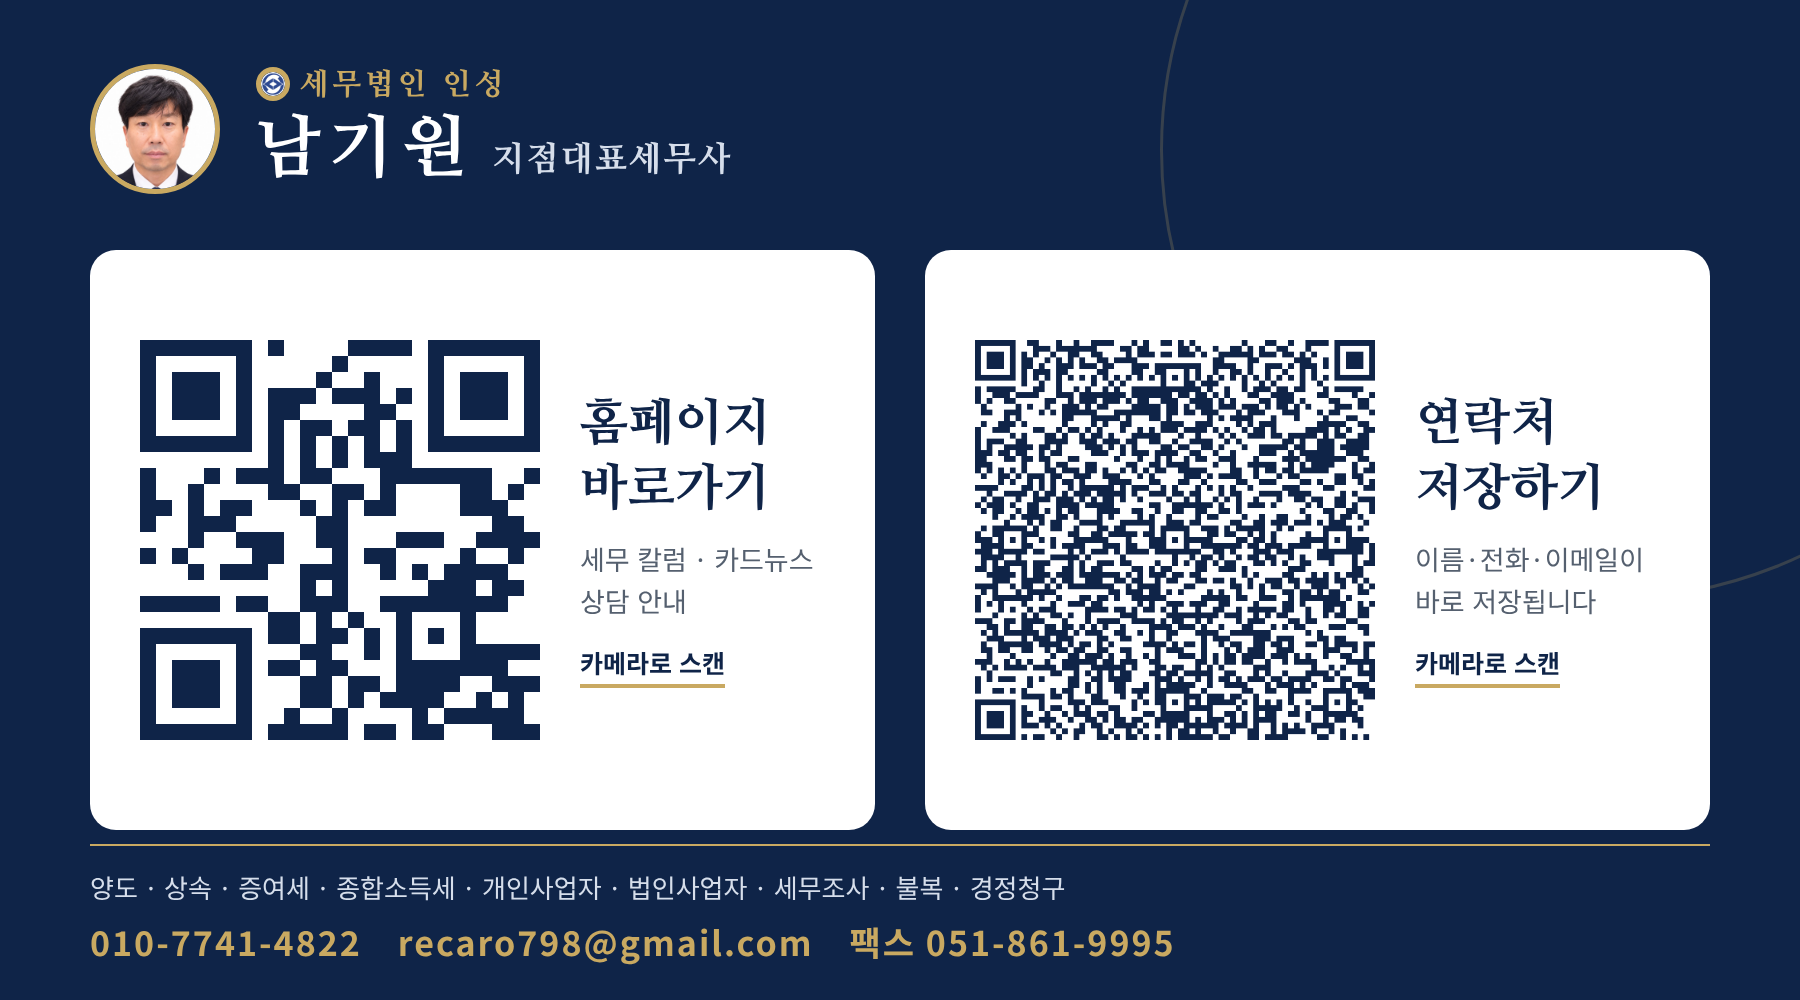
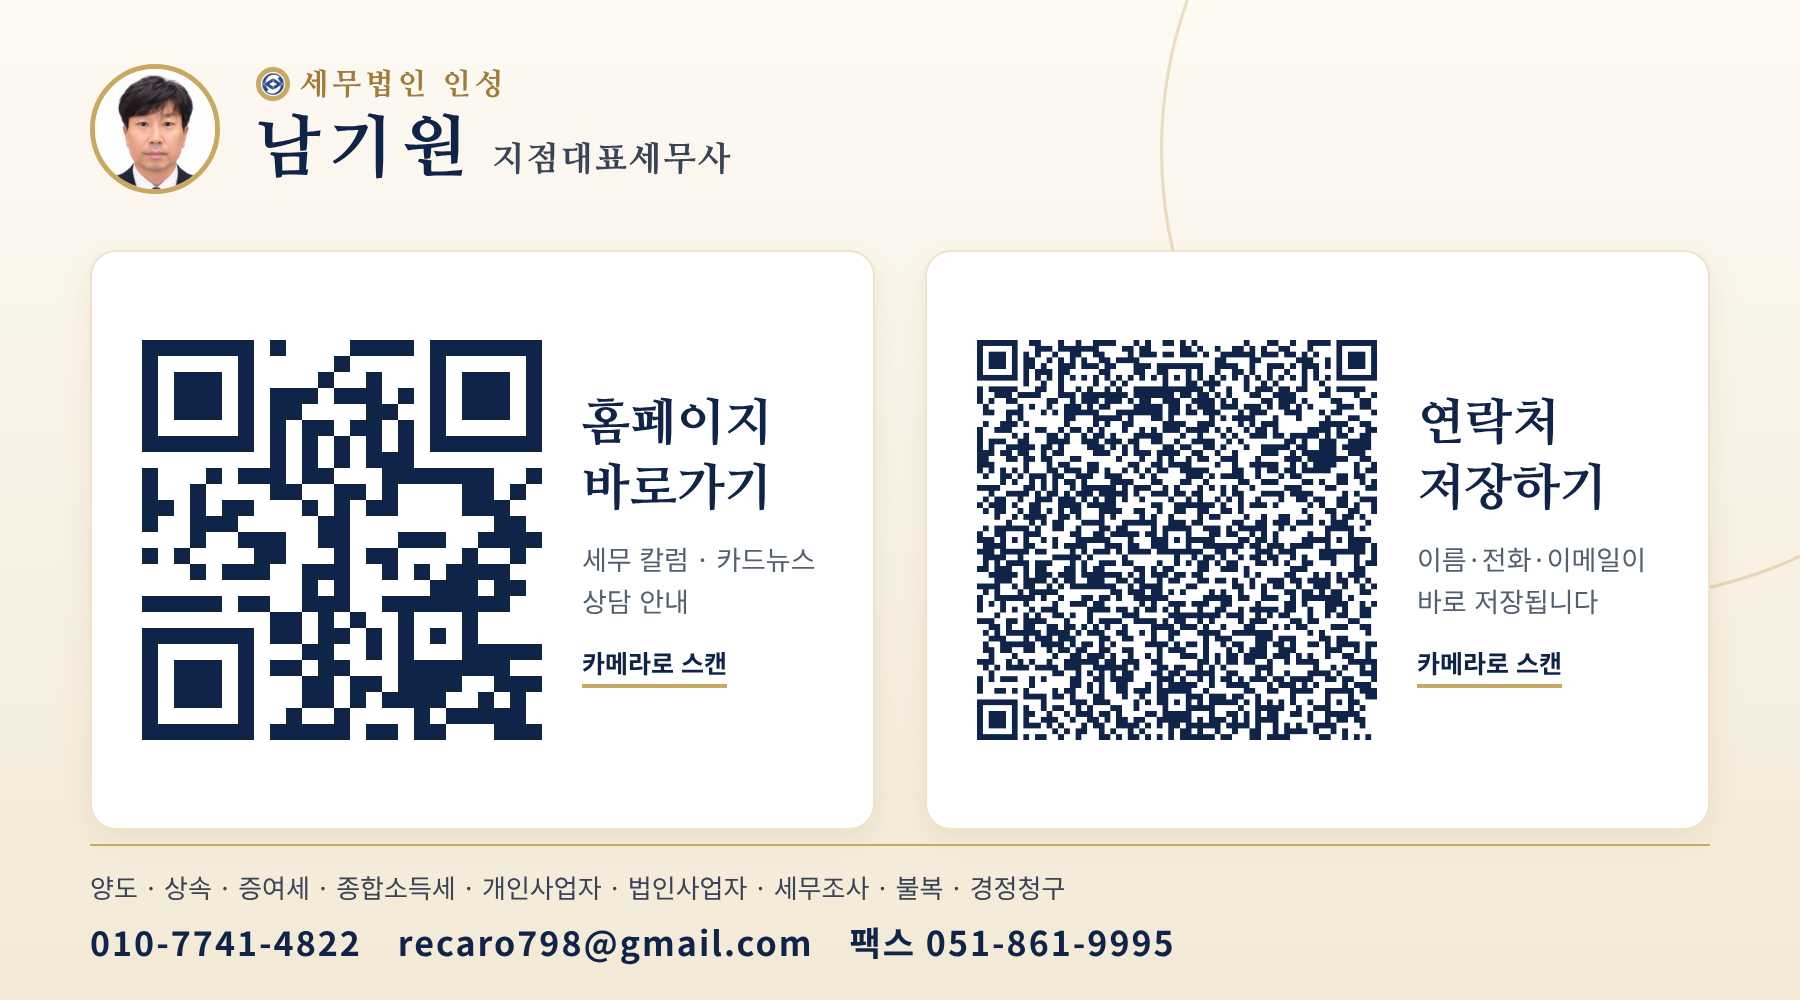
명함 남색 배경 제거: 디지털 명함·QR 명함 페이지·QR 명함 이미지·링크 미리보기 이미지를 아이보리 배경으로
Claude-Session: https://claude.ai/code/session_01SxCCn7YXo7pVz4k4qkVwMb

diff --git a/_ops/qrcard/card.html b/_ops/qrcard/card.html
@@ -1,22 +1,22 @@
 <!doctype html><html><head><meta charset="utf-8"><style>
 @font-face{font-family:NM;src:url(../fonts/NanumMyeongjo-800.woff2);font-weight:800}
 *{margin:0;padding:0;box-sizing:border-box}
-body{width:1800px;height:1000px;background:#0f2448;font-family:"Noto Sans CJK KR",sans-serif;color:#fff;position:relative;overflow:hidden}
+body{width:1800px;height:1000px;background:linear-gradient(180deg,#fdfaf4 0%,#f3e9d6 100%);font-family:"Noto Sans CJK KR",sans-serif;color:#0f2448;position:relative;overflow:hidden}
 .serif{font-family:NM,"Noto Serif CJK KR",serif;font-weight:800}
-.circ{position:absolute;right:-260px;top:-300px;width:900px;height:900px;border-radius:50%;border:3px solid rgba(201,169,97,.22)}
+.circ{position:absolute;right:-260px;top:-300px;width:900px;height:900px;border-radius:50%;border:3px solid rgba(201,169,97,.35)}
 .hd{position:absolute;left:90px;right:90px;top:64px;display:flex;align-items:center;gap:36px}
 .hd img{width:130px;height:130px;border-radius:50%;border:5px solid #c9a961;object-fit:cover}
-.hd .o{font-family:NM;font-size:30px;color:#c9a961;letter-spacing:4px;font-weight:700}
-.hd .n{font-size:68px;font-weight:900;margin-top:4px;letter-spacing:8px}
-.hd .n small{font-size:34px;font-weight:700;letter-spacing:2px;margin-left:18px;color:#d6deeb}
+.hd .o{font-family:NM;font-size:30px;color:#a27b3a;letter-spacing:4px;font-weight:700}
+.hd .n{color:#0f2448;font-size:68px;font-weight:900;margin-top:4px;letter-spacing:8px}
+.hd .n small{font-size:34px;font-weight:700;letter-spacing:2px;margin-left:18px;color:#3a4456}
 .row{position:absolute;left:90px;right:90px;top:250px;display:flex;gap:50px}
-.p{flex:1;background:#fff;border-radius:26px;height:580px;display:flex;align-items:center;gap:40px;padding:0 50px;color:#0f2448}
+.p{flex:1;background:#fff;border:2px solid #eee3cd;box-shadow:0 10px 30px rgba(162,123,58,.12);border-radius:26px;height:580px;display:flex;align-items:center;gap:40px;padding:0 50px;color:#0f2448}
 .p img{width:400px;height:400px;flex:none}
 .p .t b{display:block;font-size:50px;font-weight:900;line-height:1.3}
 .p .t span{display:block;font-size:27px;color:#55606f;margin-top:16px;line-height:1.55}
 .p .t i{display:inline-block;font-style:normal;margin-top:22px;font-size:25px;font-weight:700;color:#0f2448;border-bottom:4px solid #c9a961;padding-bottom:4px}
-.ft{position:absolute;left:90px;right:90px;bottom:34px;display:flex;flex-direction:column;gap:12px;border-top:2px solid #c9a961;padding-top:22px;font-size:26px;color:#d6deeb}
-.ft b{color:#c9a961;font-size:34px;letter-spacing:2px}
+.ft{position:absolute;left:90px;right:90px;bottom:34px;display:flex;flex-direction:column;gap:12px;border-top:2px solid #c9a961;padding-top:22px;font-size:26px;color:#3a4456}
+.ft b{color:#0f2448;font-size:34px;letter-spacing:2px}
 </style></head><body><div class="circ"></div>
 <div class="hd"><img src="profile.jpg"><div><div class="o"><img src="kacta-mark.png" style="width:34px;height:34px;vertical-align:-7px;margin-right:10px">세무법인 인성</div><div class="n serif">남기원<small>지점대표세무사</small></div></div></div>
 <div class="row">

diff --git a/card/index.html b/card/index.html
@@ -18,23 +18,23 @@
 <style>
 :root{--navy:#0f2448;--gold:#c9a961}
 *{margin:0;padding:0;box-sizing:border-box}
-body{font-family:"Noto Sans KR",sans-serif;background:var(--navy);color:#fff;min-height:100vh;display:flex;justify-content:center}
+body{font-family:"Noto Sans KR",sans-serif;background:linear-gradient(180deg,#fdfaf4 0%,#f3e9d6 100%);color:#0f2448;min-height:100vh;display:flex;justify-content:center}
 .w{width:100%;max-width:440px;padding:36px 22px 40px;position:relative}
 .top{text-align:center}
 .top>img{width:120px;height:120px;border-radius:50%;border:4px solid var(--gold);object-fit:cover}
 .mk2{width:22px;height:22px;vertical-align:-5px;margin-right:6px}
-.o{font-family:"Nanum Myeongjo",serif;margin-top:16px;font-size:14px;letter-spacing:3px;color:var(--gold);font-weight:700}
-h1{font-family:"Nanum Myeongjo",serif;font-size:36px;font-weight:800;letter-spacing:8px;margin-top:4px}
+.o{font-family:"Nanum Myeongjo",serif;margin-top:16px;font-size:14px;letter-spacing:3px;color:#a27b3a;font-weight:700}
+h1{color:#0f2448;font-family:"Nanum Myeongjo",serif;font-size:36px;font-weight:800;letter-spacing:8px;margin-top:4px}
 h1::after{content:"";display:block;width:36px;height:2px;background:var(--gold);margin:8px auto 0}
-.t{font-size:15px;color:#d6deeb;margin-top:4px}
-.f{font-size:13px;color:#aebbd3;margin-top:10px;line-height:1.6}
+.t{font-size:15px;color:#3a4456;margin-top:4px}
+.f{font-size:13px;color:#55606f;margin-top:10px;line-height:1.6}
 .btns{margin-top:26px;display:flex;flex-direction:column;gap:12px}
-.b{display:flex;align-items:center;justify-content:center;gap:10px;padding:17px;border-radius:14px;font-size:18px;font-weight:700;text-decoration:none;color:var(--navy);background:#fff}
-.b.g{background:var(--gold)}
-.b.k{background:#fee500}
-.b.l{background:transparent;color:#fff;border:2px solid rgba(255,255,255,.35)}
-.info{margin-top:26px;border-top:1px solid var(--gold);padding-top:18px;font-size:14px;line-height:1.9;color:#d6deeb;text-align:center}
-.note{margin-top:18px;font-size:12px;color:#8fa0bf;line-height:1.7;text-align:center}
+.b{display:flex;align-items:center;justify-content:center;gap:10px;padding:17px;border-radius:14px;font-size:18px;font-weight:700;text-decoration:none;color:var(--navy);background:#fff;border:1px solid #e6dfcf;box-shadow:0 4px 14px rgba(162,123,58,.08)}
+.b.g{background:linear-gradient(145deg,#e3c587,#c9a961);border:0}
+.b.k{background:#fee500;border:0}
+.b.l{background:rgba(255,255,255,.7);color:#0f2448;border:1px solid #e6dfcf;box-shadow:none}
+.info{margin-top:26px;border-top:1px solid var(--gold);padding-top:18px;font-size:14px;line-height:1.9;color:#3a4456;text-align:center}
+.note{margin-top:18px;font-size:12px;color:#7a8496;line-height:1.7;text-align:center}
 </style>
 </head>
 <body>

diff --git a/card/qr/index.html b/card/qr/index.html
@@ -15,10 +15,10 @@
 <meta property="og:image:height" content="1000">
 <style>
 *{margin:0;padding:0;box-sizing:border-box}
-body{background:#0f2448;min-height:100vh;display:flex;flex-direction:column;align-items:center;justify-content:center;padding:16px;font-family:"Noto Sans KR",sans-serif;color:#d6deeb}
+body{background:linear-gradient(180deg,#fdfaf4 0%,#f3e9d6 100%);min-height:100vh;display:flex;flex-direction:column;align-items:center;justify-content:center;padding:16px;font-family:"Noto Sans KR",sans-serif;color:#3a4456}
 img{width:100%;max-width:900px;height:auto;border-radius:12px;box-shadow:0 8px 30px rgba(0,0,0,.35)}
 p{margin-top:16px;font-size:14px;text-align:center;line-height:1.7}
-a{color:#c9a961;font-weight:700}
+a{color:#a27b3a;font-weight:700}
 </style>
 <link href="https://fonts.googleapis.com/css2?family=Nanum+Myeongjo:wght@700;800&display=swap" rel="stylesheet">
 </head>
